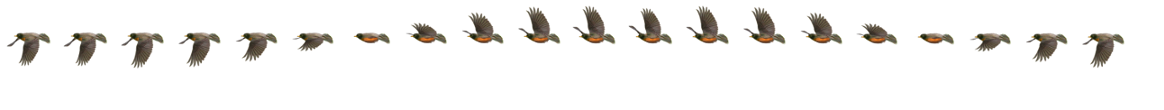
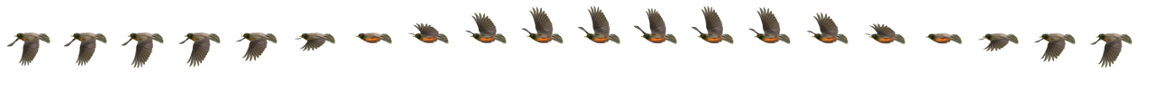
edits

Changed region(s): [[0.2474, 0.0545, 0.9897, 0.6273], [0.3402, 0.2182, 0.3711, 0.2727]]

diff --git a/src/components/Game/GameOver.js b/src/components/Game/GameOver.js
@@ -1,16 +1,24 @@
 import React, {Component} from 'react';
 import {connect} from 'react-redux';
-import {closeModal, getHighScores} from './../../ducks/reducer';
+import {closeModal, getHighScores, resetGame} from './../../ducks/reducer';
 import {Link} from 'react-router-dom';
  
 class GameOver extends Component {
+    
+    replay(){
+        this.props.resetGame()
+        this.props.playAgain()
+        
+    }
+    
     render(){
+
 
         return(
             <div className="game-over-container">
                 <div className="game-over-modal">
                     <h1>GAME OVER</h1>
-                    {/* <button onClick={()=> this.props.close()}>Play Again</button> */}
+                    <button onClick={()=> this.replay()}>Play Again</button>
                     <Link to ='/highscores'> <button>High Scores</button></Link>
                 </div>
             </div>
@@ -28,7 +36,8 @@ function mapStateToProps(state){
 
 let outputActions = {
     closeModal,
-    getHighScores
+    getHighScores,
+    resetGame
 }
 
 export default connect(mapStateToProps, outputActions)(GameOver);

diff --git a/src/ducks/reducer.js b/src/ducks/reducer.js
@@ -15,7 +15,7 @@ const initialState = {
         
     },
     bird: {
-        height: 60,
+        height: 65,
         width: 50
     },
     cloud: {
@@ -235,7 +235,13 @@ function reducer(state = initialState, action) {
             let movedObstacles = obstacles.filter(obstacle => !obstacle.remove).map(obstacle => {
                 if(obstacle.key === +action.payload.key) {
                     if(obstacle.top >= obstacleSpeed) {
+                        if(obstacle.type === 'bird') {
+                            obstacle.left -= 1;
+                        } else if(obstacle.type === 'plane') {
+                            obstacle.left += 1;
+                        }
                         obstacle.top -= obstacleSpeed;
+
                     } else if (obstacle.top < obstacleSpeed || (obstacle.top === (playerSize.height + player.top) && obstacle.left < player.left + playerSize.width && obstacle.left > player.left) ) {
                         obstacle.remove = true
                     }

diff --git a/src/components/Game/_Game.scss b/src/components/Game/_Game.scss
@@ -7,19 +7,19 @@
     }
 }
 .game-container{
-    background-image: url('./../img/seamless-tiling-clouds-789451_640.jpg');
+    background-image: url('./../img/hazy-cloud-bg.png');
     background-repeat: repeat-y;
     background-size: cover;
     position: relative;
     margin: auto;
     width: 600px;
     height: 400px;
-    animation: 5s scroll-y infinite linear;
+    animation: 4s scroll-y infinite linear;
 }
 
 @keyframes scroll-y {
     100% {
-        background-position: 0 -600px;
+        background-position-y: -450px;
     }
 }
 
@@ -52,7 +52,7 @@
 // }
 
 .bird {
-    background: url('./../img/robins2.png') no-repeat 0px 0px;
+    background: url('./../img/robins3.png') no-repeat 0px -2px;
     // background-size: 150%;
     width: 52px;
     height: 70px;
@@ -62,8 +62,8 @@
 
 @keyframes fly {
     100% {
-        background-position-x: -1081px;
-        background-position-y: 0px;
+        background-position-x: -1082px;
+        background-position-y: -4px;
     }
 }
 

diff --git a/src/components/Scores/Scores.js b/src/components/Scores/Scores.js
@@ -9,8 +9,10 @@ class Scores extends Component {
     render(){
         return(
             <div className="scores-container">
+                {/* <div className="scores-bg"></div> */}
+                <div className="parachute-penguin"></div>
                 {this.props.highScores.length > 0 ? 
-                    (<div>
+                    (<div className='high-scores'>
                         <h1>HIGH SCORES</h1>
                         
                     {this.props.highScores.map((scores, index)=> {
@@ -18,10 +20,10 @@ class Scores extends Component {
                     })} 
 
                 </div>) : 
-                null //FETCHING HIGH SCORES OR LOADING
+                (<div> <h1>RETRIEVING HIGH SCORES</h1></div> )
                 }
-                <div className="parachute-penguin"></div>
-            </div>
+                
+            </div> //end of .scores-container
         )
     }
 }

diff --git a/src/components/Landing/_Landing.scss b/src/components/Landing/_Landing.scss
@@ -54,29 +54,28 @@
 
 
 
-.landing-bird1 {
-    background: url('./../img/robins3.png') no-repeat 0px 0px;
-    // background-size: 150%;
-    position: absolute;
-    width: 55px;
-    height: 75px;
-    animation: fly 1s steps(19) infinite, flyforward 10s linear;
-}
+// .landing-bird1 {
+//     background: url('./../img/robins3.png') no-repeat 0px -2px;
+//     // background-size: 150%;
+//     position: absolute;
+//     width: 62px;
+//     height: 70px;
+//     animation: fly .8s steps(19) infinite, flyforward 10s linear;
+// }
 
 
 @keyframes fly {
     100% {
-        background-position-x: -1075px;
-        background-position-y: 0px;
+        background-position-x: -1082px;
     }
 }
 
-@keyframes flyfoward {
-    0% {
+@keyframes flyforward {
+    from {
         top: 200px;
-        left: 600px;
+        left: 800px;
     }
-    100% {
+    to {
         top: 200px;
         left: 50px;
     }

diff --git a/src/components/Game/Game.js b/src/components/Game/Game.js
@@ -8,16 +8,13 @@ class Game extends Component {
     constructor() {
         super();
         this.state={
-            // playerSize: {
-            //     height: 40,
-            //     width: 40
-            // },
             birds: '',
             clouds: '',
             planes: '',
             parachutes: ''
           
         }
+        this.startObstacles = this.startObstacles.bind(this);
     }
 
     componentDidMount() {
@@ -137,7 +134,7 @@ class Game extends Component {
                     }
 
                     {
-                        this.props.isModalOpen ?  <GameOver/> : null
+                        this.props.isModalOpen ?  <GameOver playAgain={this.startObstacles}/> : null
                     }
                 </div>
             </div>

diff --git a/src/components/Scores/_Scores.scss b/src/components/Scores/_Scores.scss
@@ -1,11 +1,21 @@
 .scores-container {
     @include fixed-header;
     @include flex;
-    padding-top: 100px;
+    background: url('./../img/hazy-cloud-bg.png') fixed no-repeat center cover;
+  
     h1 {
         text-align: center;
     }
 }
+
+// .scores-bg {
+//     // @include fixed-header;
+//     background: url('./../img/hazy-cloud-bg.png') no-repeat center;
+//     width: 100%;
+//     height: 100vh;
+//     position: absolute;
+//     z-index: -1;
+// }
 
 .parachute-penguin {
     background: url('./../img/penguin_parachute.png') no-repeat -6px 0px;

diff --git a/src/styles/_mixins.scss b/src/styles/_mixins.scss
@@ -6,8 +6,9 @@
 }
 
 @mixin fixed-header($header-height: 80px) {
-    height: calc(100% - $header-height);
+    height: calc(100vh - $header-height);
     width: 100%;
-    position: absolute;
+    position: fixed;
     top: $header-height;
+    z-index: -1;
 }
